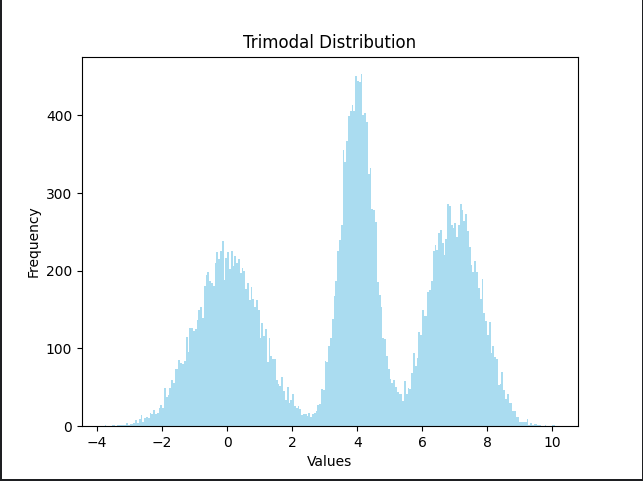
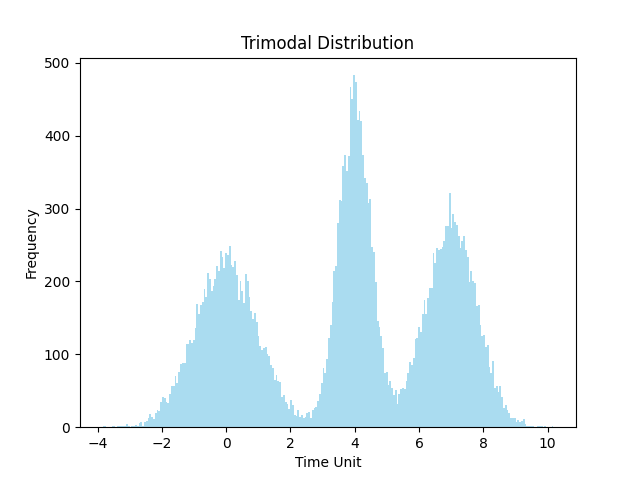
update photo

diff --git a/src/utils/Task.py b/src/utils/Task.py
@@ -1,0 +1,24 @@
+from typing import List
+
+
+class Task:
+    def __init__(self, N: int, *data):
+        """
+        initialize a task based on a given data
+
+        :param N: number of cores (data cols)
+        :param data: exec, power and energy estimations of the task
+
+        :raise ValueError: if data len is not matched with N
+        """
+        err = ValueError("insufficient data!")
+
+        if len(data) % (N * 3) != 0:
+            raise err
+
+        try:
+            self.execution_time: List[float] = list(map(float, data[:N]))
+            self.power: List[float] = list(map(float, data[N: 2 * N]))
+            self.energy: List[float] = list(map(float, data[N * 2: N * 3]))
+        except ValueError:
+            raise err

diff --git a/src/task-gen/task_gen.py b/src/task-gen/task_gen.py
@@ -1,0 +1,18 @@
+import numpy as np
+import matplotlib.pyplot as plt
+
+# Generate random data for three normal distributions
+data_1 = np.random.normal(loc=0, scale=1, size=10000)
+data_2 = np.random.normal(loc=4, scale=0.5, size=10000)
+data_3 = np.random.normal(loc=7, scale=0.8, size=10000)
+
+# Concatenate the data to create a trimodal distribution
+trimodal_data = np.concatenate((data_1, data_2, data_3))
+
+# Plot the histogram to visualize the trimodal distribution
+plt.hist(trimodal_data, bins=250, alpha=0.7, color='skyblue')
+plt.title('Trimodal Distribution')
+plt.xlabel('Time Unit')
+plt.ylabel('Frequency')
+plt.show()
+
